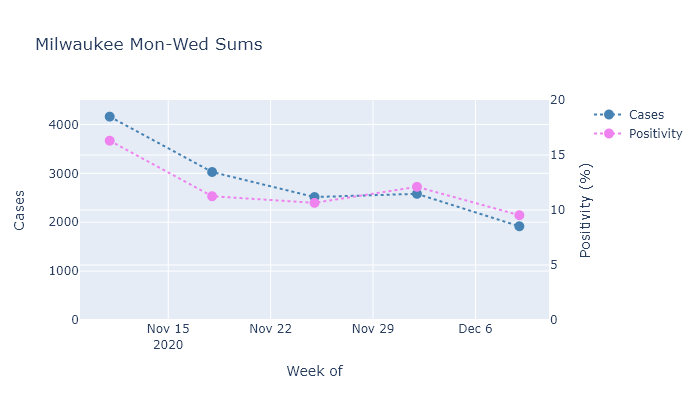
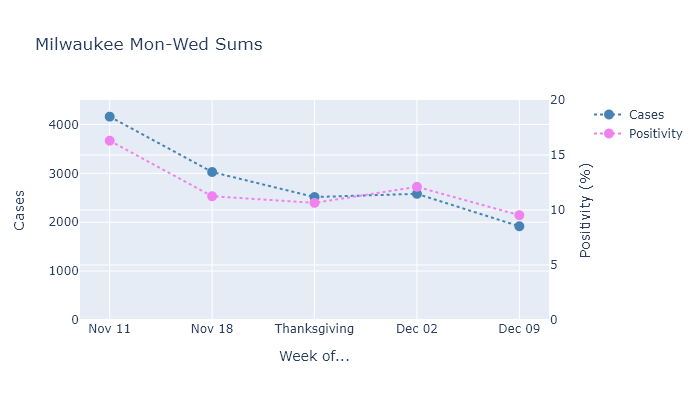
Plot update

diff --git a/docs/assets/plotly/Thanksgiving-MonWed-Milwaukee.html b/docs/assets/plotly/Thanksgiving-MonWed-Milwaukee.html
@@ -2,6 +2,6 @@
 <head><meta charset="utf-8" /></head>
 <body>
     <div>                        <script type="text/javascript">window.PlotlyConfig = {MathJaxConfig: 'local'};</script>
-        <script src="https://cdn.plot.ly/plotly-latest.min.js"></script>                <div id="394c0334-46a2-4ffb-8d2d-d6ba3deec8cf" class="plotly-graph-div" style="height:100%; width:100%;"></div>            <script type="text/javascript">                                    window.PLOTLYENV=window.PLOTLYENV || {};                                    if (document.getElementById("394c0334-46a2-4ffb-8d2d-d6ba3deec8cf")) {                    Plotly.newPlot(                        "394c0334-46a2-4ffb-8d2d-d6ba3deec8cf",                        [{"line": {"color": "steelblue", "dash": "dot"}, "marker": {"size": 10}, "mode": "lines+markers", "name": "Cases", "type": "scatter", "x": ["2020-11-11T00:00:00", "2020-11-18T00:00:00", "2020-11-25T00:00:00", "2020-12-02T00:00:00", "2020-12-09T00:00:00"], "xaxis": "x", "y": [4160.0, 3027.0, 2515.0, 2581.0, 1917.0], "yaxis": "y"}, {"line": {"color": "violet", "dash": "dot"}, "marker": {"size": 10}, "mode": "lines+markers", "name": "Positivity", "type": "scatter", "x": ["2020-11-11T00:00:00", "2020-11-18T00:00:00", "2020-11-25T00:00:00", "2020-12-02T00:00:00", "2020-12-09T00:00:00"], "xaxis": "x", "y": [16.301579215486502, 11.251951527767453, 10.650010586491637, 12.107707463526761, 9.52735947517519], "yaxis": "y2"}],                        {"template": {"data": {"bar": [{"error_x": {"color": "#2a3f5f"}, "error_y": {"color": "#2a3f5f"}, "marker": {"line": {"color": "#E5ECF6", "width": 0.5}}, "type": "bar"}], "barpolar": [{"marker": {"line": {"color": "#E5ECF6", "width": 0.5}}, "type": "barpolar"}], "carpet": [{"aaxis": {"endlinecolor": "#2a3f5f", "gridcolor": "white", "linecolor": "white", "minorgridcolor": "white", "startlinecolor": "#2a3f5f"}, "baxis": {"endlinecolor": "#2a3f5f", "gridcolor": "white", "linecolor": "white", "minorgridcolor": "white", "startlinecolor": "#2a3f5f"}, "type": "carpet"}], "choropleth": [{"colorbar": {"outlinewidth": 0, "ticks": ""}, "type": "choropleth"}], "contour": [{"colorbar": {"outlinewidth": 0, "ticks": ""}, "colorscale": [[0.0, "#0d0887"], [0.1111111111111111, "#46039f"], [0.2222222222222222, "#7201a8"], [0.3333333333333333, "#9c179e"], [0.4444444444444444, "#bd3786"], [0.5555555555555556, "#d8576b"], [0.6666666666666666, "#ed7953"], [0.7777777777777778, "#fb9f3a"], [0.8888888888888888, "#fdca26"], [1.0, "#f0f921"]], "type": "contour"}], "contourcarpet": [{"colorbar": {"outlinewidth": 0, "ticks": ""}, "type": "contourcarpet"}], "heatmap": [{"colorbar": {"outlinewidth": 0, "ticks": ""}, "colorscale": [[0.0, "#0d0887"], [0.1111111111111111, "#46039f"], [0.2222222222222222, "#7201a8"], [0.3333333333333333, "#9c179e"], [0.4444444444444444, "#bd3786"], [0.5555555555555556, "#d8576b"], [0.6666666666666666, "#ed7953"], [0.7777777777777778, "#fb9f3a"], [0.8888888888888888, "#fdca26"], [1.0, "#f0f921"]], "type": "heatmap"}], "heatmapgl": [{"colorbar": {"outlinewidth": 0, "ticks": ""}, "colorscale": [[0.0, "#0d0887"], [0.1111111111111111, "#46039f"], [0.2222222222222222, "#7201a8"], [0.3333333333333333, "#9c179e"], [0.4444444444444444, "#bd3786"], [0.5555555555555556, "#d8576b"], [0.6666666666666666, "#ed7953"], [0.7777777777777778, "#fb9f3a"], [0.8888888888888888, "#fdca26"], [1.0, "#f0f921"]], "type": "heatmapgl"}], "histogram": [{"marker": {"colorbar": {"outlinewidth": 0, "ticks": ""}}, "type": "histogram"}], "histogram2d": [{"colorbar": {"outlinewidth": 0, "ticks": ""}, "colorscale": [[0.0, "#0d0887"], [0.1111111111111111, "#46039f"], [0.2222222222222222, "#7201a8"], [0.3333333333333333, "#9c179e"], [0.4444444444444444, "#bd3786"], [0.5555555555555556, "#d8576b"], [0.6666666666666666, "#ed7953"], [0.7777777777777778, "#fb9f3a"], [0.8888888888888888, "#fdca26"], [1.0, "#f0f921"]], "type": "histogram2d"}], "histogram2dcontour": [{"colorbar": {"outlinewidth": 0, "ticks": ""}, "colorscale": [[0.0, "#0d0887"], [0.1111111111111111, "#46039f"], [0.2222222222222222, "#7201a8"], [0.3333333333333333, "#9c179e"], [0.4444444444444444, "#bd3786"], [0.5555555555555556, "#d8576b"], [0.6666666666666666, "#ed7953"], [0.7777777777777778, "#fb9f3a"], [0.8888888888888888, "#fdca26"], [1.0, "#f0f921"]], "type": "histogram2dcontour"}], "mesh3d": [{"colorbar": {"outlinewidth": 0, "ticks": ""}, "type": "mesh3d"}], "parcoords": [{"line": {"colorbar": {"outlinewidth": 0, "ticks": ""}}, "type": "parcoords"}], "pie": [{"automargin": true, "type": "pie"}], "scatter": [{"marker": {"colorbar": {"outlinewidth": 0, "ticks": ""}}, "type": "scatter"}], "scatter3d": [{"line": {"colorbar": {"outlinewidth": 0, "ticks": ""}}, "marker": {"colorbar": {"outlinewidth": 0, "ticks": ""}}, "type": "scatter3d"}], "scattercarpet": [{"marker": {"colorbar": {"outlinewidth": 0, "ticks": ""}}, "type": "scattercarpet"}], "scattergeo": [{"marker": {"colorbar": {"outlinewidth": 0, "ticks": ""}}, "type": "scattergeo"}], "scattergl": [{"marker": {"colorbar": {"outlinewidth": 0, "ticks": ""}}, "type": "scattergl"}], "scattermapbox": [{"marker": {"colorbar": {"outlinewidth": 0, "ticks": ""}}, "type": "scattermapbox"}], "scatterpolar": [{"marker": {"colorbar": {"outlinewidth": 0, "ticks": ""}}, "type": "scatterpolar"}], "scatterpolargl": [{"marker": {"colorbar": {"outlinewidth": 0, "ticks": ""}}, "type": "scatterpolargl"}], "scatterternary": [{"marker": {"colorbar": {"outlinewidth": 0, "ticks": ""}}, "type": "scatterternary"}], "surface": [{"colorbar": {"outlinewidth": 0, "ticks": ""}, "colorscale": [[0.0, "#0d0887"], [0.1111111111111111, "#46039f"], [0.2222222222222222, "#7201a8"], [0.3333333333333333, "#9c179e"], [0.4444444444444444, "#bd3786"], [0.5555555555555556, "#d8576b"], [0.6666666666666666, "#ed7953"], [0.7777777777777778, "#fb9f3a"], [0.8888888888888888, "#fdca26"], [1.0, "#f0f921"]], "type": "surface"}], "table": [{"cells": {"fill": {"color": "#EBF0F8"}, "line": {"color": "white"}}, "header": {"fill": {"color": "#C8D4E3"}, "line": {"color": "white"}}, "type": "table"}]}, "layout": {"annotationdefaults": {"arrowcolor": "#2a3f5f", "arrowhead": 0, "arrowwidth": 1}, "coloraxis": {"colorbar": {"outlinewidth": 0, "ticks": ""}}, "colorscale": {"diverging": [[0, "#8e0152"], [0.1, "#c51b7d"], [0.2, "#de77ae"], [0.3, "#f1b6da"], [0.4, "#fde0ef"], [0.5, "#f7f7f7"], [0.6, "#e6f5d0"], [0.7, "#b8e186"], [0.8, "#7fbc41"], [0.9, "#4d9221"], [1, "#276419"]], "sequential": [[0.0, "#0d0887"], [0.1111111111111111, "#46039f"], [0.2222222222222222, "#7201a8"], [0.3333333333333333, "#9c179e"], [0.4444444444444444, "#bd3786"], [0.5555555555555556, "#d8576b"], [0.6666666666666666, "#ed7953"], [0.7777777777777778, "#fb9f3a"], [0.8888888888888888, "#fdca26"], [1.0, "#f0f921"]], "sequentialminus": [[0.0, "#0d0887"], [0.1111111111111111, "#46039f"], [0.2222222222222222, "#7201a8"], [0.3333333333333333, "#9c179e"], [0.4444444444444444, "#bd3786"], [0.5555555555555556, "#d8576b"], [0.6666666666666666, "#ed7953"], [0.7777777777777778, "#fb9f3a"], [0.8888888888888888, "#fdca26"], [1.0, "#f0f921"]]}, "colorway": ["#636efa", "#EF553B", "#00cc96", "#ab63fa", "#FFA15A", "#19d3f3", "#FF6692", "#B6E880", "#FF97FF", "#FECB52"], "font": {"color": "#2a3f5f"}, "geo": {"bgcolor": "white", "lakecolor": "white", "landcolor": "#E5ECF6", "showlakes": true, "showland": true, "subunitcolor": "white"}, "hoverlabel": {"align": "left"}, "hovermode": "closest", "mapbox": {"style": "light"}, "paper_bgcolor": "white", "plot_bgcolor": "#E5ECF6", "polar": {"angularaxis": {"gridcolor": "white", "linecolor": "white", "ticks": ""}, "bgcolor": "#E5ECF6", "radialaxis": {"gridcolor": "white", "linecolor": "white", "ticks": ""}}, "scene": {"xaxis": {"backgroundcolor": "#E5ECF6", "gridcolor": "white", "gridwidth": 2, "linecolor": "white", "showbackground": true, "ticks": "", "zerolinecolor": "white"}, "yaxis": {"backgroundcolor": "#E5ECF6", "gridcolor": "white", "gridwidth": 2, "linecolor": "white", "showbackground": true, "ticks": "", "zerolinecolor": "white"}, "zaxis": {"backgroundcolor": "#E5ECF6", "gridcolor": "white", "gridwidth": 2, "linecolor": "white", "showbackground": true, "ticks": "", "zerolinecolor": "white"}}, "shapedefaults": {"line": {"color": "#2a3f5f"}}, "ternary": {"aaxis": {"gridcolor": "white", "linecolor": "white", "ticks": ""}, "baxis": {"gridcolor": "white", "linecolor": "white", "ticks": ""}, "bgcolor": "#E5ECF6", "caxis": {"gridcolor": "white", "linecolor": "white", "ticks": ""}}, "title": {"x": 0.05}, "xaxis": {"automargin": true, "gridcolor": "white", "linecolor": "white", "ticks": "", "title": {"standoff": 15}, "zerolinecolor": "white", "zerolinewidth": 2}, "yaxis": {"automargin": true, "gridcolor": "white", "linecolor": "white", "ticks": "", "title": {"standoff": 15}, "zerolinecolor": "white", "zerolinewidth": 2}}}, "title": {"text": "Milwaukee Mon-Wed Sums"}, "xaxis": {"anchor": "y", "domain": [0.0, 0.94], "title": {"text": "Week of"}}, "yaxis": {"anchor": "x", "domain": [0.0, 1.0], "range": [0, 4500], "title": {"text": "Cases"}}, "yaxis2": {"anchor": "x", "overlaying": "y", "range": [0, 20], "side": "right", "title": {"text": "Positivity (%)"}}},                        {"responsive": true}                    )                };                            </script>        </div>
+        <script src="https://cdn.plot.ly/plotly-latest.min.js"></script>                <div id="c80dbb5b-dfe8-4e8b-a359-6ec56798e187" class="plotly-graph-div" style="height:100%; width:100%;"></div>            <script type="text/javascript">                                    window.PLOTLYENV=window.PLOTLYENV || {};                                    if (document.getElementById("c80dbb5b-dfe8-4e8b-a359-6ec56798e187")) {                    Plotly.newPlot(                        "c80dbb5b-dfe8-4e8b-a359-6ec56798e187",                        [{"line": {"color": "steelblue", "dash": "dot"}, "marker": {"size": 10}, "mode": "lines+markers", "name": "Cases", "type": "scatter", "x": ["Nov 11", "Nov 18", "Thanksgiving", "Dec 02", "Dec 09"], "xaxis": "x", "y": [4160.0, 3027.0, 2515.0, 2581.0, 1917.0], "yaxis": "y"}, {"line": {"color": "violet", "dash": "dot"}, "marker": {"size": 10}, "mode": "lines+markers", "name": "Positivity", "type": "scatter", "x": ["Nov 11", "Nov 18", "Thanksgiving", "Dec 02", "Dec 09"], "xaxis": "x", "y": [16.301579215486502, 11.251951527767453, 10.650010586491637, 12.107707463526761, 9.52735947517519], "yaxis": "y2"}],                        {"template": {"data": {"bar": [{"error_x": {"color": "#2a3f5f"}, "error_y": {"color": "#2a3f5f"}, "marker": {"line": {"color": "#E5ECF6", "width": 0.5}}, "type": "bar"}], "barpolar": [{"marker": {"line": {"color": "#E5ECF6", "width": 0.5}}, "type": "barpolar"}], "carpet": [{"aaxis": {"endlinecolor": "#2a3f5f", "gridcolor": "white", "linecolor": "white", "minorgridcolor": "white", "startlinecolor": "#2a3f5f"}, "baxis": {"endlinecolor": "#2a3f5f", "gridcolor": "white", "linecolor": "white", "minorgridcolor": "white", "startlinecolor": "#2a3f5f"}, "type": "carpet"}], "choropleth": [{"colorbar": {"outlinewidth": 0, "ticks": ""}, "type": "choropleth"}], "contour": [{"colorbar": {"outlinewidth": 0, "ticks": ""}, "colorscale": [[0.0, "#0d0887"], [0.1111111111111111, "#46039f"], [0.2222222222222222, "#7201a8"], [0.3333333333333333, "#9c179e"], [0.4444444444444444, "#bd3786"], [0.5555555555555556, "#d8576b"], [0.6666666666666666, "#ed7953"], [0.7777777777777778, "#fb9f3a"], [0.8888888888888888, "#fdca26"], [1.0, "#f0f921"]], "type": "contour"}], "contourcarpet": [{"colorbar": {"outlinewidth": 0, "ticks": ""}, "type": "contourcarpet"}], "heatmap": [{"colorbar": {"outlinewidth": 0, "ticks": ""}, "colorscale": [[0.0, "#0d0887"], [0.1111111111111111, "#46039f"], [0.2222222222222222, "#7201a8"], [0.3333333333333333, "#9c179e"], [0.4444444444444444, "#bd3786"], [0.5555555555555556, "#d8576b"], [0.6666666666666666, "#ed7953"], [0.7777777777777778, "#fb9f3a"], [0.8888888888888888, "#fdca26"], [1.0, "#f0f921"]], "type": "heatmap"}], "heatmapgl": [{"colorbar": {"outlinewidth": 0, "ticks": ""}, "colorscale": [[0.0, "#0d0887"], [0.1111111111111111, "#46039f"], [0.2222222222222222, "#7201a8"], [0.3333333333333333, "#9c179e"], [0.4444444444444444, "#bd3786"], [0.5555555555555556, "#d8576b"], [0.6666666666666666, "#ed7953"], [0.7777777777777778, "#fb9f3a"], [0.8888888888888888, "#fdca26"], [1.0, "#f0f921"]], "type": "heatmapgl"}], "histogram": [{"marker": {"colorbar": {"outlinewidth": 0, "ticks": ""}}, "type": "histogram"}], "histogram2d": [{"colorbar": {"outlinewidth": 0, "ticks": ""}, "colorscale": [[0.0, "#0d0887"], [0.1111111111111111, "#46039f"], [0.2222222222222222, "#7201a8"], [0.3333333333333333, "#9c179e"], [0.4444444444444444, "#bd3786"], [0.5555555555555556, "#d8576b"], [0.6666666666666666, "#ed7953"], [0.7777777777777778, "#fb9f3a"], [0.8888888888888888, "#fdca26"], [1.0, "#f0f921"]], "type": "histogram2d"}], "histogram2dcontour": [{"colorbar": {"outlinewidth": 0, "ticks": ""}, "colorscale": [[0.0, "#0d0887"], [0.1111111111111111, "#46039f"], [0.2222222222222222, "#7201a8"], [0.3333333333333333, "#9c179e"], [0.4444444444444444, "#bd3786"], [0.5555555555555556, "#d8576b"], [0.6666666666666666, "#ed7953"], [0.7777777777777778, "#fb9f3a"], [0.8888888888888888, "#fdca26"], [1.0, "#f0f921"]], "type": "histogram2dcontour"}], "mesh3d": [{"colorbar": {"outlinewidth": 0, "ticks": ""}, "type": "mesh3d"}], "parcoords": [{"line": {"colorbar": {"outlinewidth": 0, "ticks": ""}}, "type": "parcoords"}], "pie": [{"automargin": true, "type": "pie"}], "scatter": [{"marker": {"colorbar": {"outlinewidth": 0, "ticks": ""}}, "type": "scatter"}], "scatter3d": [{"line": {"colorbar": {"outlinewidth": 0, "ticks": ""}}, "marker": {"colorbar": {"outlinewidth": 0, "ticks": ""}}, "type": "scatter3d"}], "scattercarpet": [{"marker": {"colorbar": {"outlinewidth": 0, "ticks": ""}}, "type": "scattercarpet"}], "scattergeo": [{"marker": {"colorbar": {"outlinewidth": 0, "ticks": ""}}, "type": "scattergeo"}], "scattergl": [{"marker": {"colorbar": {"outlinewidth": 0, "ticks": ""}}, "type": "scattergl"}], "scattermapbox": [{"marker": {"colorbar": {"outlinewidth": 0, "ticks": ""}}, "type": "scattermapbox"}], "scatterpolar": [{"marker": {"colorbar": {"outlinewidth": 0, "ticks": ""}}, "type": "scatterpolar"}], "scatterpolargl": [{"marker": {"colorbar": {"outlinewidth": 0, "ticks": ""}}, "type": "scatterpolargl"}], "scatterternary": [{"marker": {"colorbar": {"outlinewidth": 0, "ticks": ""}}, "type": "scatterternary"}], "surface": [{"colorbar": {"outlinewidth": 0, "ticks": ""}, "colorscale": [[0.0, "#0d0887"], [0.1111111111111111, "#46039f"], [0.2222222222222222, "#7201a8"], [0.3333333333333333, "#9c179e"], [0.4444444444444444, "#bd3786"], [0.5555555555555556, "#d8576b"], [0.6666666666666666, "#ed7953"], [0.7777777777777778, "#fb9f3a"], [0.8888888888888888, "#fdca26"], [1.0, "#f0f921"]], "type": "surface"}], "table": [{"cells": {"fill": {"color": "#EBF0F8"}, "line": {"color": "white"}}, "header": {"fill": {"color": "#C8D4E3"}, "line": {"color": "white"}}, "type": "table"}]}, "layout": {"annotationdefaults": {"arrowcolor": "#2a3f5f", "arrowhead": 0, "arrowwidth": 1}, "coloraxis": {"colorbar": {"outlinewidth": 0, "ticks": ""}}, "colorscale": {"diverging": [[0, "#8e0152"], [0.1, "#c51b7d"], [0.2, "#de77ae"], [0.3, "#f1b6da"], [0.4, "#fde0ef"], [0.5, "#f7f7f7"], [0.6, "#e6f5d0"], [0.7, "#b8e186"], [0.8, "#7fbc41"], [0.9, "#4d9221"], [1, "#276419"]], "sequential": [[0.0, "#0d0887"], [0.1111111111111111, "#46039f"], [0.2222222222222222, "#7201a8"], [0.3333333333333333, "#9c179e"], [0.4444444444444444, "#bd3786"], [0.5555555555555556, "#d8576b"], [0.6666666666666666, "#ed7953"], [0.7777777777777778, "#fb9f3a"], [0.8888888888888888, "#fdca26"], [1.0, "#f0f921"]], "sequentialminus": [[0.0, "#0d0887"], [0.1111111111111111, "#46039f"], [0.2222222222222222, "#7201a8"], [0.3333333333333333, "#9c179e"], [0.4444444444444444, "#bd3786"], [0.5555555555555556, "#d8576b"], [0.6666666666666666, "#ed7953"], [0.7777777777777778, "#fb9f3a"], [0.8888888888888888, "#fdca26"], [1.0, "#f0f921"]]}, "colorway": ["#636efa", "#EF553B", "#00cc96", "#ab63fa", "#FFA15A", "#19d3f3", "#FF6692", "#B6E880", "#FF97FF", "#FECB52"], "font": {"color": "#2a3f5f"}, "geo": {"bgcolor": "white", "lakecolor": "white", "landcolor": "#E5ECF6", "showlakes": true, "showland": true, "subunitcolor": "white"}, "hoverlabel": {"align": "left"}, "hovermode": "closest", "mapbox": {"style": "light"}, "paper_bgcolor": "white", "plot_bgcolor": "#E5ECF6", "polar": {"angularaxis": {"gridcolor": "white", "linecolor": "white", "ticks": ""}, "bgcolor": "#E5ECF6", "radialaxis": {"gridcolor": "white", "linecolor": "white", "ticks": ""}}, "scene": {"xaxis": {"backgroundcolor": "#E5ECF6", "gridcolor": "white", "gridwidth": 2, "linecolor": "white", "showbackground": true, "ticks": "", "zerolinecolor": "white"}, "yaxis": {"backgroundcolor": "#E5ECF6", "gridcolor": "white", "gridwidth": 2, "linecolor": "white", "showbackground": true, "ticks": "", "zerolinecolor": "white"}, "zaxis": {"backgroundcolor": "#E5ECF6", "gridcolor": "white", "gridwidth": 2, "linecolor": "white", "showbackground": true, "ticks": "", "zerolinecolor": "white"}}, "shapedefaults": {"line": {"color": "#2a3f5f"}}, "ternary": {"aaxis": {"gridcolor": "white", "linecolor": "white", "ticks": ""}, "baxis": {"gridcolor": "white", "linecolor": "white", "ticks": ""}, "bgcolor": "#E5ECF6", "caxis": {"gridcolor": "white", "linecolor": "white", "ticks": ""}}, "title": {"x": 0.05}, "xaxis": {"automargin": true, "gridcolor": "white", "linecolor": "white", "ticks": "", "title": {"standoff": 15}, "zerolinecolor": "white", "zerolinewidth": 2}, "yaxis": {"automargin": true, "gridcolor": "white", "linecolor": "white", "ticks": "", "title": {"standoff": 15}, "zerolinecolor": "white", "zerolinewidth": 2}}}, "title": {"text": "Milwaukee Mon-Wed Sums"}, "xaxis": {"anchor": "y", "domain": [0.0, 0.94], "title": {"text": "Week of..."}}, "yaxis": {"anchor": "x", "domain": [0.0, 1.0], "range": [0, 4500], "title": {"text": "Cases"}}, "yaxis2": {"anchor": "x", "overlaying": "y", "range": [0, 20], "side": "right", "title": {"text": "Positivity (%)"}}},                        {"responsive": true}                    )                };                            </script>        </div>
 </body>
 </html>

diff --git a/BlogStatusDec21.py b/BlogStatusDec21.py
@@ -251,7 +251,10 @@ os.startfile(save_png)
 # fig = px.bar(weekly, x='Date', y=['Cases', 'Tests'], barmode='group')
 # pplot(fig, include_plotlyjs='cdn', filename=plotpath+'\\temp.html')
 
-plotdata = monwed.iloc[-5:]
+monwed['Week of'] = monwed['Date'].apply(lambda d: d.strftime('%b %d'))
+plotdata = monwed.iloc[-5:].reset_index(drop=True)
+plotdata.loc[2,'Week of'] = 'Thanksgiving'
+
 
 
 fig = plotly.subplots.make_subplots(
@@ -260,7 +263,7 @@ fig = plotly.subplots.make_subplots(
 
 fig.add_trace(
     go.Scatter(
-        x=plotdata.Date, 
+        x=plotdata['Week of'], 
         y=plotdata.Cases, 
         name='Cases', 
         line_color='steelblue', 
@@ -271,7 +274,7 @@ fig.add_trace(
 # add positivity on secondary axis
 fig.add_trace(
     go.Scatter(
-        x=plotdata.Date, 
+        x=plotdata['Week of'], 
         y=plotdata.Positivity, 
         name='Positivity', 
         line_color='violet', 
@@ -280,10 +283,10 @@ fig.add_trace(
     )
     
 
-fig.update_layout(title='Milwaukee Mon-Wed averages')
+fig.update_layout(title='Milwaukee Mon-Wed Sums')
 
 fig.update_traces(mode='lines+markers', marker_size=10, line_dash='dot')
-fig.update_xaxes(title='Week of')
+fig.update_xaxes(title='Week of...')
 fig.update_yaxes({'range': [0, 4500]}, title='Cases', secondary_y=False)
 fig.update_yaxes({'range': [0, 20]}, title='Positivity (%)', secondary_y=True)
 
